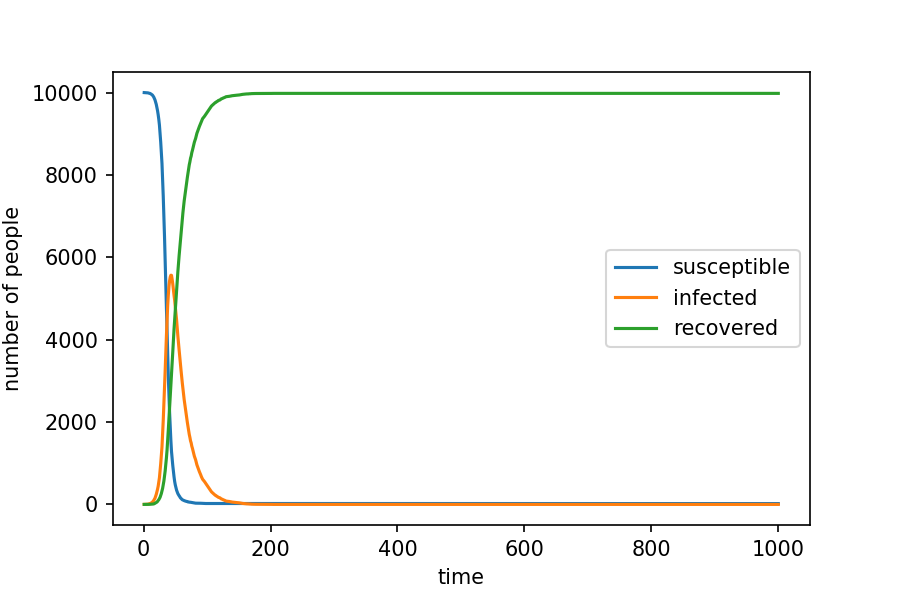
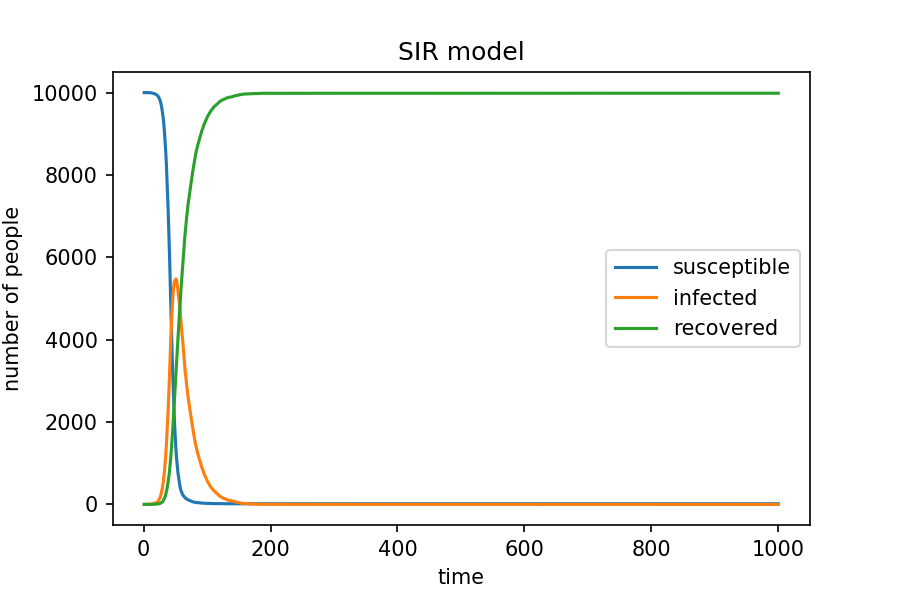
Polishment

diff --git a/Week 7/24points.py b/Week 7/24points.py
@@ -5,9 +5,9 @@ Created on Wed Apr  3 08:56:00 2019
 
 @author: jefft
 """
-
-
+from fractions import Fraction
 count = 0
+s = 0
 y = False
 nm = input('Please input numbers to computer 24:(use \',\' to divide them)\n')
 nm = nm.split(',')
@@ -18,168 +18,69 @@ for i in range(0,len(nm)):
             y = True
         if not 0 < nm[i] < 24:
             print('The input number must be integers from 1 to 23')
+            s = 1
+            break
     except:
         print('The input number must be integers from 1 to 23')
-    
+        s = 1
+        break
 
 #pick up 2 numbers and put them back
 #divide whole string into group of 2 numbers
-#------------------------------------------------------------------------------
-
-
-
-def compute(x,y,op):
+#==============================================================================
+def compute(x,y,op,t):
     if op=='+':return x+y
     elif op=='*':return x*y
     elif op=='-':return x-y
-    else:
-        return x/y if y else None
-    #this is the same as
-    # if y:
-    #   return x/y
-    #else:
-    #   return None
-"""
-syntax: if y: with no more condition means y is 0 (for int) or not empty(for other classes), then it will go on
-syntax: return [object1] if [condition] else [object2]
-.isalnum: test if a string is only composed of number and letters (no white space or '()'-like)
-.format: formalize a string
-"""
-def exp(p,ite=0):
-    global count
-    from itertools import permutations
-    if len(p)==1:
-        return [(p[0],str(p[0]))]
-    operation = ['+','-','*','/']
-    ret = []
-    p = permutations(p) if ite==0 else [p] #permutation function will output any possible combinaitons of numbers with ORDER, combinations are saved as arrays
-    for array_n in p:
-        #print(array_n)
-        for num in range(1,len(array_n)): #split the combination array into 2 parts, cover every possible combination
-            ret1 = exp(array_n[:num],ite+1)
-            ret2 = exp(array_n[num:],ite+1)
-            for op in operation:
-                for va1,expression in ret1:
-                    if va1==None:continue
-                    for va2,expression2 in ret2:
-                        if va2==None:continue
-                        combined_exp = '{}{}' if expression.isalnum() else '({}){}'
-                        combined_exp += '{}' if expression2.isalnum() else '({})' #add brackets to the expression
-                        new_val = compute(va1,va2,op)
-                        ret.append((new_val,combined_exp.format(expression,op,expression2)))
-                        if ite==0 and new_val==24:
-                            return ''.join(e+'\n' for x,e in ret if x==24) #if x=24, e+'\n'will be joined
-                        count += 1
-    return ret
-
-if y==True:
-    exp(nm)
-    print('Recursion times:', count)
-
-count = 0
-
-#-------------------------------------------------------------------------------
-def compute(x,y,op):
-    if op=='+':return x+y
-    elif op=='*':return x*y
-    elif op=='-':return x-y
-    else:
+    elif op=='r-':return y-x 
+    elif op=='/':
         if y:
-            return x/y
+            return Fraction(x,y)
         else:
-            None
-count = 0
-solve = False
-def point24(t):
-    global count
-    global solve
-    operation = ['+','-','*','/']
-    from itertools import permutations
-    if len(t)==1 and t[0]==24:
-        solve = True
-        return (count,solve)
-    if len(t)==1 and t[0]!=24:
-        return (count,solve)
+            return nm[t]
     else:
-        t = permutations(t)
-        for array in t:
-            array = list(array)
-            for op in operation:
-                new_val = compute(array[0], array[1], op)
-                del(array[0])
-                array[0] = new_val
-                point24(array)
-                count += 1
-                t = point24(array)
-
-
-point24([1,2,3,4])
-#------------------------------------------------------------------------------
-from fractions import Fraction
-count = 0
-solution = 0
-y = False
-nm = input('Please input numbers to computer 24:(use \',\' to divide them)\n')
-nm = nm.split(',')
-for i in range(0,len(nm)):
-    try:
-        if float(nm[i]) == int(nm[i]):
-            nm[i] = int(nm[i])
-            y = True
-        if not 0 < nm[i] < 24:
-            print('The input number must be integers from 1 to 23')
-    except:
-        print('The input number must be integers from 1 to 23')
-
+        if x:
+            return Fraction(y,x) #division is not precise, e.g. 1/3=0.333, 0.333*3=0.999!=1
+        else:
+            return nm[t]
+#==============================================================================
 def dfs(n):
+    """
+    n is the "calculating area" of a list. Shorten by one once every calculation
+    (merge two numbers at the first and second position of the list by maths operaition
+    put the result to the first position
+    put the last item to the second position
+    in next recrusion, compute these two positions again)
+    restore the list after recursion for next step in the loop
+    """
     global count
-    global solution
-    count += 1
-    
+    global nm
+    count += 1    
     if n == 1:
-        if (float(nm[0])==24):
-            solution += 1
+        if nm[0]==None:
+            return 0
+        elif (float(nm[0])==24):
             return 1    #if 1 is returned when n=1, than every step when it goes back, 1 will be constantly returned, 
         else:
             return 0        
     for i in range(0,n):
-        for j in range(i+1,n): #cover every possible combination of 2 numbers in the list
+        for j in range(i+1,n): #cover every possible combination of 2 numbers in the current "calculating area"
             a = nm[i]
             b = nm[j]
-            nm[j] = nm[n-1] #?
-                
-            nm[i] = a+b
-            if (dfs(n-1)):
-                return 1
-                
-            nm[i] = b-a
-            if (dfs(n-1)):
-                return 1
-            
-            nm[i] = a-b
-            if (dfs(n-1)):
-                return 1
-                
-            nm[i] = a*b
-            if (dfs(n-1)):
-                return 1
-                
-            if a:
-                nm[i] = Fraction(b,a)
-                if (dfs(n-1)):
+            #print(nm,n)
+            nm[j] = nm[n-1] #put the last item into the place to be operated next time
+            for char in ['+','-','r-','*','/','r/']: #'r-' is reverse minus (y-x),'r/' is reverse divide (y/x)
+                nm[i] = compute(a,b,char,i)
+                if (dfs(n-1)): # if find a solution, than return 1 -> not executed
                     return 1
-                
-            if b:
-                nm[i] = Fraction(a,b)
-                if (dfs(n-1)):
-                    return 1
-                
+            # if cannot find a solution, than not executed (already return)
             nm[i] = a
             nm[j] = b #restore the list
     return 0
 
-if (dfs(len(nm))): #finally returns 0
-    print('Yes')
-else:               #finally returns 1
-    print('No')
-print('Recursion times:',count,'Solution:',solution)
+if s==0:
+    if (dfs(len(nm))): #finally returns 0
+        print('Yes')
+    else:               #finally returns 1
+        print('No')
+    print('Recursion times:',count)

diff --git a/Week 7/sample_code_24games.py b/Week 7/sample_code_24games.py
@@ -25,14 +25,16 @@ while i:
 num = list(map(int,numList))  
 #recursion times
 count = 0 
-
+solution = 0
 #n is len(num) 
 def dfs(n):
     global count
+    global solution
     count = count +1
     
     if n == 1:
         if(float(num[0])==24):
+            solution += 1
             return 1
         else:
             return 0
@@ -79,4 +81,3 @@ if (dfs(len(num))):
 else: 
     print('No')
 print('Recursion times:',count)
-

diff --git a/Practical12/SIR_vaccination.py b/Practical12/SIR_vaccination.py
@@ -42,5 +42,6 @@ for u in range(0,11):
     plt.plot(x,list_inf[u],label=str(u*10)+'%',color=cm.gnuplot2(u*20)) #plot graphs in one figure with loops
 plt.xlabel('time')
 plt.ylabel('number of people')
+plt.title('SIR model with different vaccination rates')
 plt.legend()
 plt.savefig("SIR_vaccination", type="png")

diff --git a/Practical12/SIR.py b/Practical12/SIR.py
@@ -41,4 +41,5 @@ plt.plot(x,rcv,label='recovered')
 plt.xlabel('time')
 plt.ylabel('number of people')
 plt.legend() 
+plt.title('SIR model')
 plt.savefig("simple SIR", type="png")
